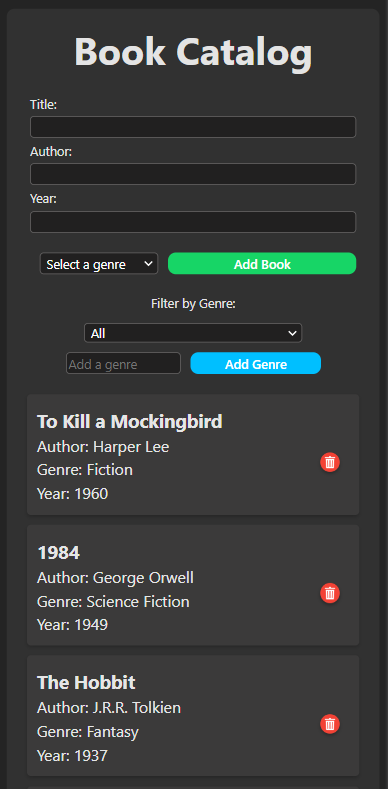
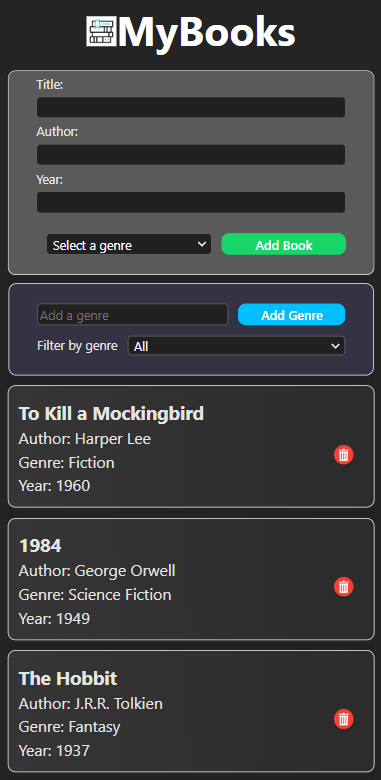
style: add new styles

diff --git a/09.07.2024/book-catalog/src/App.jsx b/09.07.2024/book-catalog/src/App.jsx
@@ -85,15 +85,6 @@ function App() {
       <div className={style.container}>
         <BookForm addBook={addBook} genres={genres} />
         <div className={style.filter}>
-          <label htmlFor="genreFilter">Filter by Genre: </label>
-          <select id="genreFilter" value={filter} onChange={handleFilterChange}>
-            <option value="">All</option>
-            {genres.map((genre) => (
-              <option key={genre} value={genre}>
-                {genre}
-              </option>
-            ))}
-          </select>
           <div className={style.genre}>
             <input
               type="text"
@@ -104,6 +95,21 @@ function App() {
             <button className={style.genreButton} onClick={addGenre}>
               Add Genre
             </button>
+          </div>
+          <div className={style.containerFilterBy}>
+            <label htmlFor="genreFilter">Filter by genre</label>
+            <select
+              id="genreFilter"
+              value={filter}
+              onChange={handleFilterChange}
+            >
+              <option value="">All</option>
+              {genres.map((genre) => (
+                <option key={genre} value={genre}>
+                  {genre}
+                </option>
+              ))}
+            </select>
           </div>
         </div>
         <BookList books={filteredBooks} deleteBook={deleteBook} />

diff --git a/09.07.2024/book-catalog/src/App.module.css b/09.07.2024/book-catalog/src/App.module.css
@@ -3,22 +3,32 @@
   flex-direction: column;
   align-items: center;
   justify-content: center;
-  padding: 20px;
+  /* padding: 20px; */
   border-radius: 8px;
-  background-color: #313131;
+  background-color: #222222;
   min-width: 300px;
   max-width: 100%;
   overflow-x: hidden;
-  min-height: 100dvh;
+  overflow-y: hidden;
   margin: 10px;
 }
 
+.containerFilterBy {
+  display: flex;
+  flex-wrap: nowrap;
+  gap: 10px;
+}
+
 .filter {
-  margin-bottom: 20px;
+  margin-bottom: 10px;
   display: flex;
   flex-direction: column;
   align-items: center;
   gap: 10px;
+  background-color: rgb(52, 51, 67);
+  padding: 20px 38px;
+  border-radius: 8px;
+  border: 1px solid whitesmoke;
 }
 
 .genre {
@@ -26,10 +36,11 @@
   flex-direction: row;
   align-items: stretch;
   gap: 10px;
+  width: 100%;
 }
 
 .genreButton {
-  width: 100%;
+  width: 50%;
   font-size: 0.8rem;
   background-color: rgb(0, 191, 255);
 }
@@ -38,5 +49,9 @@
   .container {
     max-width: 100dvh;
     min-height: 100dvh;
+  }
+
+  .filter {
+    padding: 20px 28px;
   }
 }

diff --git a/09.07.2024/book-catalog/src/index.css b/09.07.2024/book-catalog/src/index.css
@@ -41,7 +41,7 @@ body {
 }
 
 h1 {
-  font-size: 2.4em;
+  font-size: 2.6em;
   line-height: 1.1;
 }
 
@@ -55,14 +55,13 @@ button {
   background-color: #17d566;
   cursor: pointer;
   transition: border-color 0.25s;
-  /* width: 100%; */
 }
 button:hover {
-  border-color: #646cff;
+  border-color: #fffffd;
 }
 button:focus,
 button:focus-visible {
-  outline: 4px auto -webkit-focus-ring-color;
+  outline: 2px auto -webkit-focus-ring-color;
 }
 
 @media (prefers-color-scheme: light) {
@@ -76,6 +75,14 @@ button:focus-visible {
   button {
     background-color: #f9f9f9;
   }
+}
+
+form {
+  background-color: #5a5a5a;
+  padding: 0px 28px;
+  border-radius: 8px;
+  margin-bottom: 8px;
+  border: 1px solid whitesmoke;
 }
 
 input,

diff --git a/09.07.2024/book-catalog/src/components/BookItem.module.css b/09.07.2024/book-catalog/src/components/BookItem.module.css
@@ -2,11 +2,12 @@
   display: flex;
   justify-content: space-between;
   align-items: center;
-  background-color: #3b3a3a;
+  background: linear-gradient(to right, #363636 0%, #2b2b2b 100%);
   padding: 10px;
   margin-bottom: 10px;
-  border-radius: 4px;
+  border-radius: 8px;
   box-shadow: 0 2px 4px rgb(38, 38, 38);
+  border: 1px solid whitesmoke;
 }
 
 .deleteButton {

diff --git a/09.07.2024/book-catalog/src/components/Header.jsx b/09.07.2024/book-catalog/src/components/Header.jsx
@@ -1,11 +1,13 @@
 // Header.jsx
 import React from "react";
 import style from "./Header.module.css";
+import bookGif from "../assets/books.gif";
 
 const Header = () => {
   return (
     <header className={style.header}>
-      <h1>Book Catalog</h1>
+      <img src={bookGif} alt="book-gif" width="30px" />
+      <h1>MyBooks</h1>
     </header>
   );
 };

diff --git a/09.07.2024/book-catalog/src/components/Header.module.css b/09.07.2024/book-catalog/src/components/Header.module.css
@@ -1,6 +1,11 @@
 .header {
+  display: flex;
+  flex-direction: row;
+  justify-content: center;
+  align-items: baseline;
   background-color: #242424;
   color: white;
-  padding: 10px 20px;
   text-align: center;
+  margin-bottom: 8px;
+  margin-top: 8px;
 }

diff --git a/09.07.2024/book-catalog/src/components/Footer.jsx b/09.07.2024/book-catalog/src/components/Footer.jsx
@@ -5,7 +5,7 @@ import style from "./Footer.module.css";
 const Footer = () => {
   return (
     <footer className={style.footer}>
-      <p>&copy; 2023 Book Catalog</p>
+      <p>&copy; 2024 - Made with love by Jitzu</p>
     </footer>
   );
 };

diff --git a/09.07.2024/book-catalog/src/components/BookForm.module.css b/09.07.2024/book-catalog/src/components/BookForm.module.css
@@ -19,5 +19,5 @@
 
 .addButton {
   font-size: 0.8rem;
-  width: 100%;
+  width: 50%;
 }
